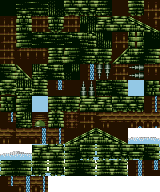
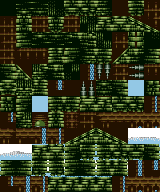
Conveyor belt

Changed region(s): [[0.2812, 0.9062, 1.0, 1.0]]

diff --git a/src/objects/bomb.cpp b/src/objects/bomb.cpp
@@ -76,10 +76,28 @@ bool TA_Bomb::update()
 
     if(timer >= moveTime) {
         velocity.y += grv * speed * speed * TA::elapsedTime;
-        int moveFlags = moveAndCollide(topLeft, bottomRight, velocity * TA::elapsedTime);
+
+        TA_Point velocityAdd = TA_Point(0, 0);
+        if(ground) {
+            int flags = objectSet->checkCollision(hitbox);
+            if(flags & TA_COLLISION_CONVEYOR_BELT_LEFT) {
+                velocityAdd = TA_Point(-1, 0);
+            }
+            if(flags & TA_COLLISION_CONVEYOR_BELT_RIGHT) {
+                velocityAdd = TA_Point(1, 0);
+            }
+        }
+
+        int moveFlags = moveAndCollide(topLeft, bottomRight, (velocity + velocityAdd) * TA::elapsedTime, ground);
+
         if(moveFlags & TA_GROUND_COLLISION) {
             velocity.y = std::min(double(0), velocity.y);
+            ground = true;
         }
+        else {
+            ground = false;
+        }
+
         if(moveFlags & TA_WALL_COLLISION) {
             velocity.x = 0;
         }

diff --git a/src/object_set.cpp b/src/object_set.cpp
@@ -35,6 +35,7 @@
 #include "objects/grass_block.h"
 #include "objects/mini_sub.h"
 #include "objects/enemy_mine.h"
+#include "objects/conveyor_belt.h"
 
 TA_Object::TA_Object(TA_ObjectSet *newObjectSet)
 {
@@ -280,6 +281,13 @@ void TA_ObjectSet::load(std::string filename)
         else if(name == "mine") {
             TA_Point position(element->IntAttribute("x"), element->IntAttribute("y"));
             spawnObject<TA_EnemyMine>(position);
+        }
+
+        else if(name == "conveyor_belt") {
+            TA_Point topLeft(element->IntAttribute("left"), element->IntAttribute("top"));
+            TA_Point bottomRight(element->IntAttribute("right"), element->IntAttribute("bottom"));
+            bool direction = element->Attribute("direction", "right");
+            spawnObject<TA_ConveyorBelt>(topLeft, bottomRight, direction);
         }
 
         else {

diff --git a/src/character_collision.cpp b/src/character_collision.cpp
@@ -76,6 +76,16 @@ void TA_Character::updateCollisions()
         positionDelta = (velocity + windVelocity) * TA::elapsedTime;
     }
 
+    if(ground) {
+        int flags = links.objectSet->checkCollision(hitbox);
+        if(flags & TA_COLLISION_CONVEYOR_BELT_LEFT) {
+            positionDelta.x -= 0.8 * TA::elapsedTime;
+        }
+        if(flags & TA_COLLISION_CONVEYOR_BELT_RIGHT) {
+            positionDelta.x += 0.8 * TA::elapsedTime;
+        }
+    }
+
     int flags = moveAndCollide(topLeft, bottomRight, positionDelta, ground);
 
     if(flags & TA_COLLISION_ERROR) {

diff --git a/include/objects/conveyor_belt.h b/include/objects/conveyor_belt.h
@@ -1,0 +1,17 @@
+#ifndef TA_CONVEYOR_BELT_H
+#define TA_CONVEYOR_BELT_H
+
+#include "object_set.h"
+
+class TA_ConveyorBelt : public TA_Object {
+private:
+    TA_CollisionType collisionType = TA_COLLISION_CONVEYOR_BELT_LEFT;
+
+public:
+    using TA_Object::TA_Object;
+    void load(TA_Point topLeft, TA_Point bottomRight, bool direction);
+    bool update() {return true;}
+    TA_CollisionType getCollisionType() {return collisionType;}
+};
+
+#endif // TA_CONVEYOR_BELT_H

diff --git a/include/tilemap.h b/include/tilemap.h
@@ -23,7 +23,9 @@ enum TA_CollisionType {
     TA_COLLISION_HAMMER = (1 << 10),
     TA_COLLISION_WATER = (1 << 11),
     TA_COLLISION_NAPALM = (1 << 12),
-    TA_COLLISION_DRILL = (1 << 13)
+    TA_COLLISION_DRILL = (1 << 13),
+    TA_COLLISION_CONVEYOR_BELT_LEFT = (1 << 14),
+    TA_COLLISION_CONVEYOR_BELT_RIGHT = (1 << 15)
 };
 
 class TA_Tilemap {

diff --git a/src/objects/conveyor_belt.cpp b/src/objects/conveyor_belt.cpp
@@ -1,0 +1,7 @@
+#include "conveyor_belt.h"
+
+void TA_ConveyorBelt::load(TA_Point topLeft, TA_Point bottomRight, bool direction)
+{
+    hitbox.setRectangle(topLeft, bottomRight);
+    collisionType = (direction ? TA_COLLISION_CONVEYOR_BELT_RIGHT : TA_COLLISION_CONVEYOR_BELT_LEFT);
+}

diff --git a/include/objects/bomb.h b/include/objects/bomb.h
@@ -22,7 +22,7 @@ private:
     TA_Sound explosionSound;
     TA_BombMode mode;
 
-    bool direction, destroyed = false;
+    bool direction, ground = false, destroyed = false;
     double timer = 0;
 
 protected:
